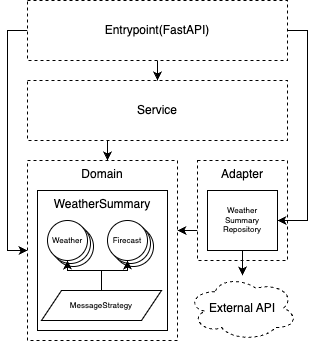
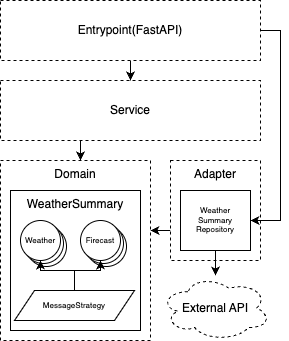
Refactoring (do not use domain model in entrypoint)

diff --git a/src/weather/entrypoint/main.py b/src/weather/entrypoint/main.py
@@ -4,7 +4,6 @@ from fastapi.responses import JSONResponse
 
 from weather.adapters import repository
 from weather.adapters.errors import WeatherSummaryRepositoryTimeout
-from weather.domain import models
 from weather.services import services
 
 app = FastAPI()
@@ -17,12 +16,13 @@ async def validation_exception_handler(request, exc):
 
 @app.get("/summary")
 async def summary(lat: float = Query(ge=-90, le=90), lon: float = Query(ge=-180, le=180)):
+    repo = repository.DroomWeatherSummaryRepository()
+
     try:
-        repo = repository.DroomWeatherSummaryRepository()
-        location = models.Location(latitude=lat, longitude=lon)
-        summary_messages = await services.get_weather_summary_messages(location=location, repo=repo)
+        summary_messages = await services.get_weather_summary_messages(latitude=lat, longitude=lon, repo=repo)
     except WeatherSummaryRepositoryTimeout:
         raise HTTPException(status_code=408)
     except Exception:
         raise HTTPException(status_code=500)
+
     return dict(summary=summary_messages)

diff --git a/src/weather/services/services.py b/src/weather/services/services.py
@@ -4,7 +4,10 @@ from weather.adapters.repository import AbstractWeatherSummaryRepository
 from weather.domain.models import Location
 
 
-async def get_weather_summary_messages(location: Location, repo: AbstractWeatherSummaryRepository) -> Dict[str, str]:
+async def get_weather_summary_messages(
+    latitude: float, longitude: float, repo: AbstractWeatherSummaryRepository
+) -> Dict[str, str]:
+    location = Location(latitude=latitude, longitude=longitude)
     weather_summary = await repo.get_weather_summary(location=location, message_strategy="default")
     summary_messages = dict(
         greeting=weather_summary.generate_greeting_message(),
